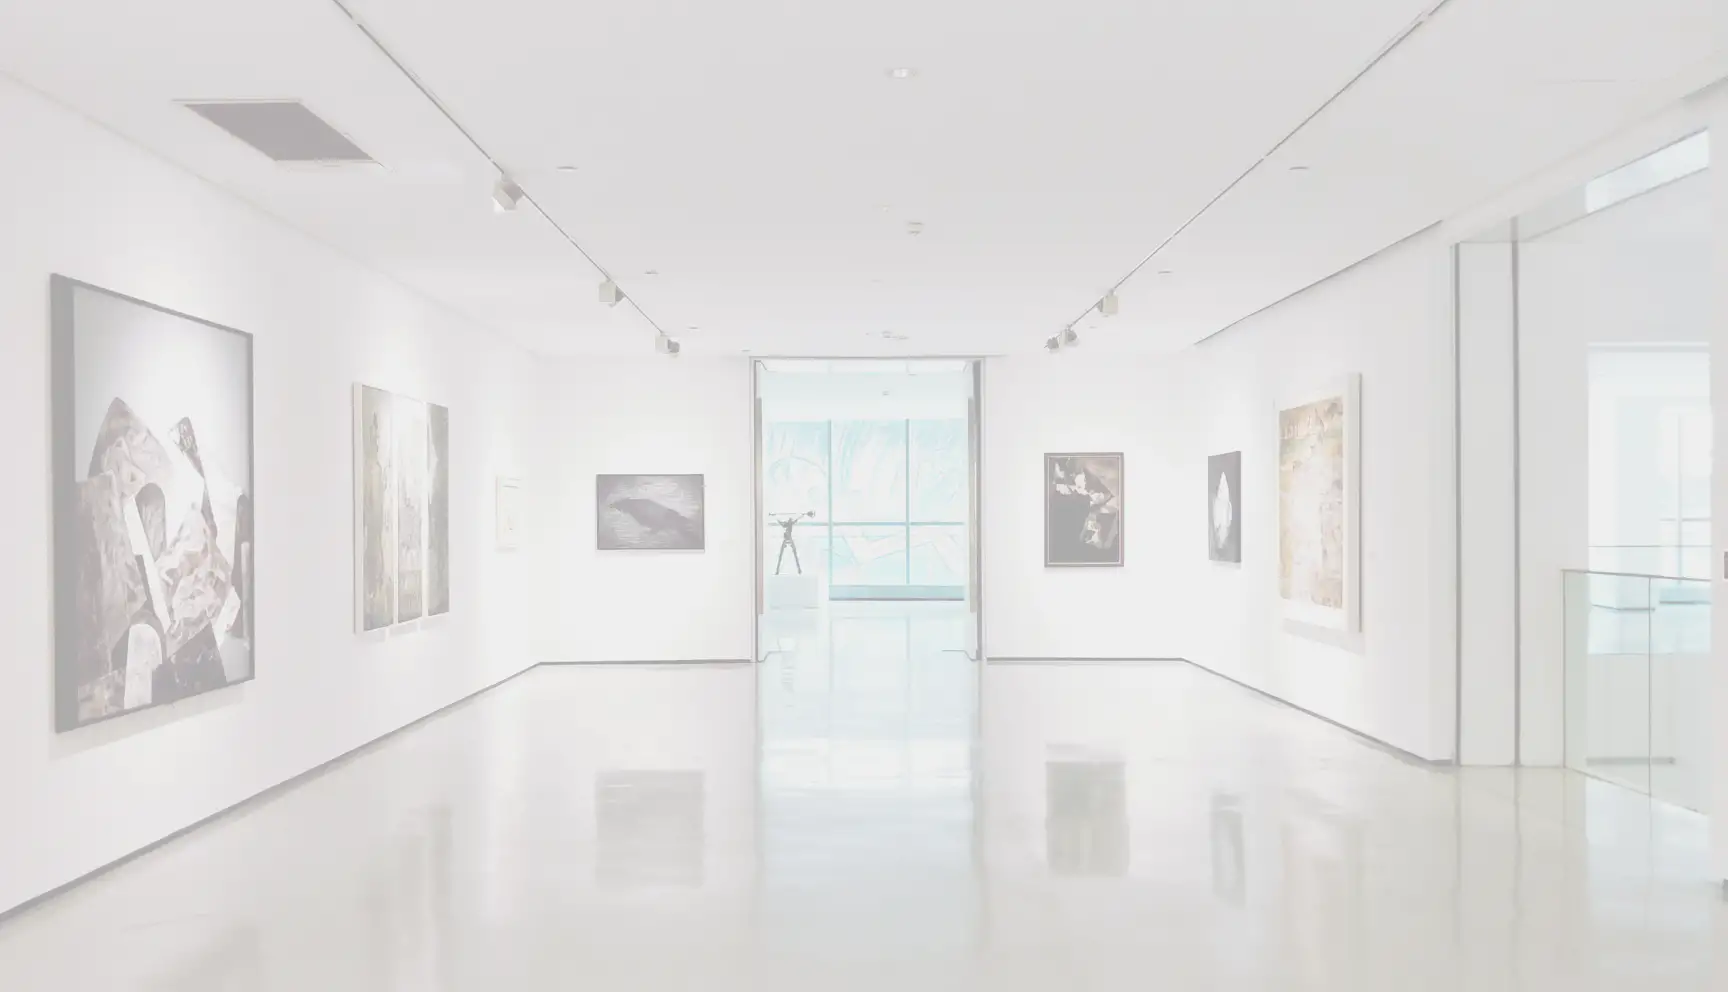
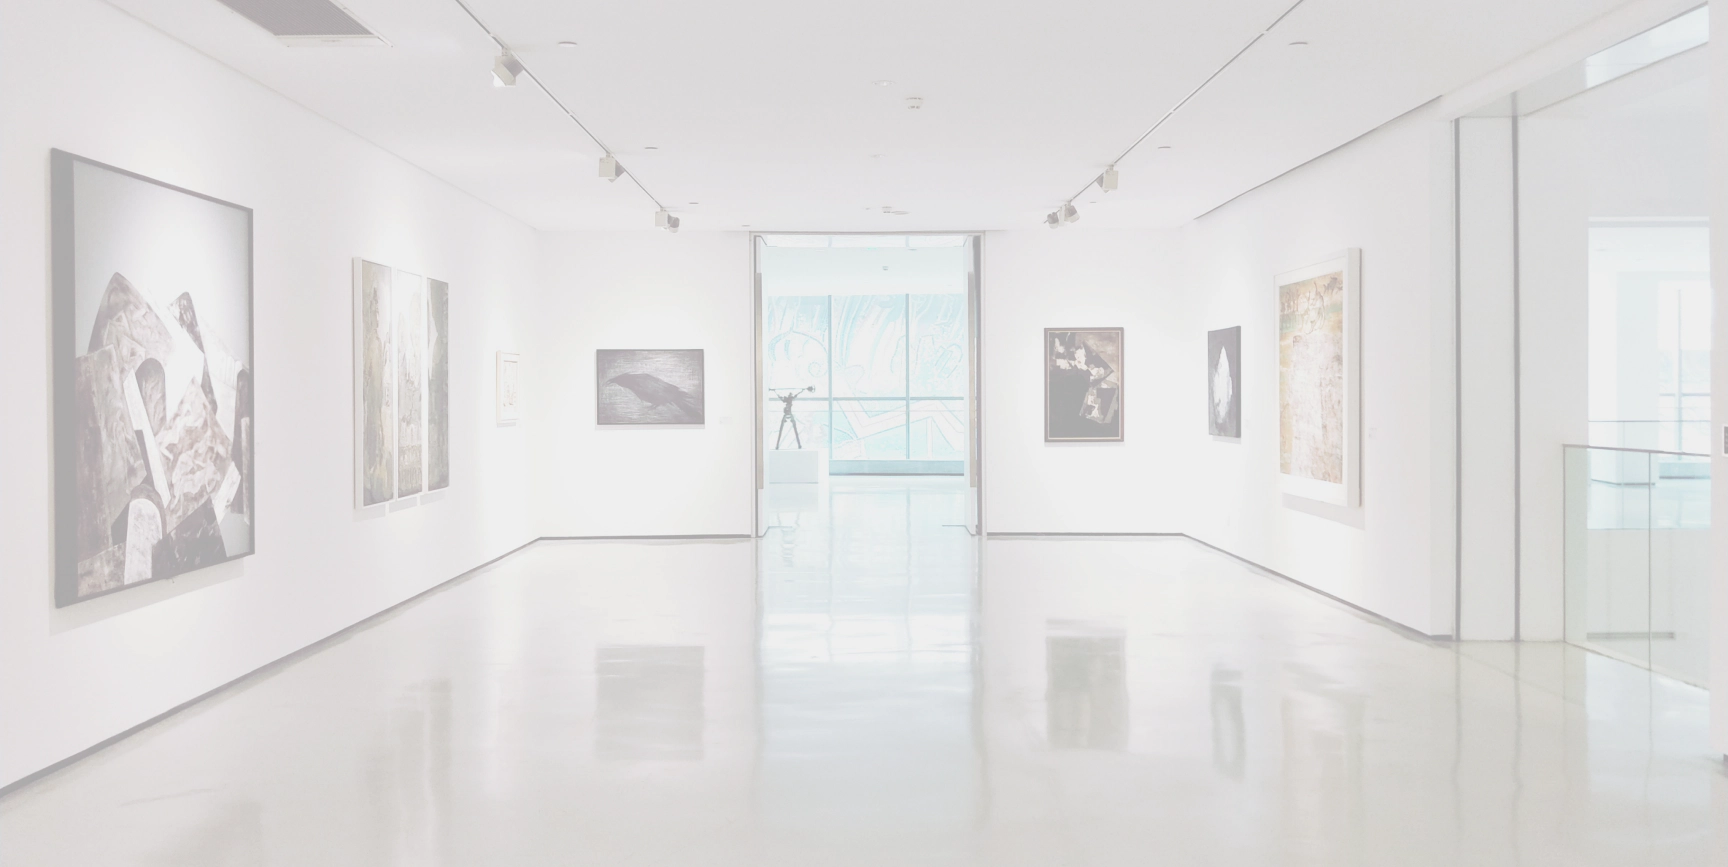
avancement header + hero

diff --git a/index.html b/index.html
@@ -7,7 +7,7 @@
     <title>ArtVault</title>
     <link rel="stylesheet" href="src/css/style.css">
     <script defer="" src="https://unpkg.com/alpinejs@3.4.2/dist/cdn.min.js"></script>
-    <link rel="icon" type="image/svg" href="#"/>
+    <link rel="icon" type="image/svg" href="public/icon/Logo-s.svg"/>
 </head>
 <body>
 
@@ -18,9 +18,8 @@
         <nav class="header__menu menu">
             <ul class="menu__list listUnstyled">
                 <li class="menu__item"><a class="menu__link" href="/"><h3 class="menu__title">Accueil</h3></a></li>
-                <li class="menu__item"><a class="menu__link" href="concepteurs.html"><h3 class="menu__title">Concepteurs</h3></a></li>
                 <li class="menu__item"><a class="menu__link" href="contact.html"><h3 class="menu__title">Contact</h3></a></li>
-                <li class="menu__item"><a class="menu__link" href="connect.html"><h3 class="menu__title">Se connecter</h3></a></li>
+                <li class="menu__item"><a class="menu__link connect" href="connect.html"><h3 class="menu__title">Se connecter</h3></a></li>
             </ul>
         </nav>
     </header>
@@ -32,25 +31,25 @@
                 <p class="hero__tagline">Imagine, créer et personnalise ton musée virtuel</p>
             </div>
             
-            <a href="#repere">
-                <div class="hero__line"></div>
+            <a class="hero__swipe" href="#repere">
+                <img src="public/icon/Swipe.svg" alt="icone de swipe">
             </a>
             
-            <div>
+            <div class="hero__illu">
                 <img src="public/img/illustration0.webp" alt="image de musée">
             </div>
 
-            <a href="#">Rejoindre</a>
+            <div class="hero__button"><a href="#">Rejoindre</a></div>
             <div id="repere" class="hero__repere"></div>
         </div>
 
-        <img src="public/img/illustration1.webp" alt="illustration d'un musée">
+        <img class="ill1" src="public/img/illustration1.webp" alt="illustration d'un musée">
         <h2>Votre musée personnel</h2>
         <p>Créez, imaginez et personnalisez votre propre pièce de musée. Développez votre imagination, affirmez votre style et laissez place à votre créativité. Grâce aux nombreuses oeuvres et items disponibles, décorez votre mur librement dans ArtVault.</p>
         <h2>Espace de partage</h2>
         <p>Partagez votre musée aux autres utilisateurs et visitez leurs pièces. Réagissez, commentez et partagez autour des créations de chacun. Inspirez vous des murs de la communauté et développez toujours plus votre imagination.</p>
-        <img src="public/img/illustration2.webp" alt="illustration d'un musée">
-        <img src="public/img/illustration3.webp" alt="illustration d'un musée">
+        <img class="ill2" src="public/img/illustration2.webp" alt="illustration d'un musée">
+        <img class="ill3" src="public/img/illustration3.webp" alt="illustration d'un musée">
         <h2>Une création sans limite</h2>
         <p>Vous cherchez à intégrer votre œuvre ou vos propres items de personnalisation ? Uploadez les et utilisez les dans votre espace. Mettez les à disposition des autres utilisateurs gratuitement ou fixez votre prix pour chaque achat.</p>
     </main>

diff --git a/src/css/components/hero.css b/src/css/components/hero.css
@@ -1,31 +1,31 @@
-.hero__header {
-    height: 100vh;
-    color: var(--grey--1);
-    display: flex;
-    flex-direction: column;
-}
-
 .hero__title {
-    font-size: var(--t);
-    font-weight: 300;
-    line-height: 5.19rem;
-    padding-top: 4vh;
+    position: absolute;
+    top: 0;
+    left: 0;
+    right: 0;
     text-align: center;
-    margin-right: 0;
+    margin-top: 23vh;
+    color: var(--red--2);
+    font-weight: 900;
+    font-size: var(--h1);
+    text-transform: uppercase;
+    z-index: 2;
 }
 
 .hero__tagline {
-    font-family: var(--font-serif);
-    font-size: var(--h3);
-    color: var(--design--1);
-    font-weight: 600;
+    position: absolute;
+    top: 0;
+    left: 0;
+    right: 0;
     text-align: center;
-    position: relative;
-    top: -32px;
+    margin-top: 40vh;
+    font-weight: 400;
+    color: var(--black);
+    z-index: 2;
 }
 
-.title__redLetter {
-    color: var(--design--1);
+.hero__illu img {
+    max-width: 100%;
 }
 
 .hero__repere {
@@ -37,43 +37,35 @@
     z-index: -1;
 }
 
+.hero__button{
+    position: absolute;
+    top: 0;
+    right: 0;
+    left: 0;
+    width: 15.6vw;
+    height: 7.4vh;
+    background-color: var(--red--3);
+    margin-top: 78.5vh;
+    z-index: 2;
+    display: flex;
+    justify-self: center;
+    justify-content: center;
+    margin-right: auto;
+    margin-left: auto;
+}
+
+.hero__button a {
+    font: 400 var(--t-l);
+    color: var(--white);
+    display: flex;
+    align-self: center;
+}
+
 .hero__swipe {
-    font-family: var(--font-sans-serif2);
-    font-weight: lighter;
-    font-size: var(--st);
-    color: var(--grey--1);
-    z-index: 0;
     position: absolute;
-    top: 90vh;
-    left: 46%;
-}
-
-.hero__line {
-    width: 87.47px;
-    height: 24.72px;
-    z-index: 0;
-    position: absolute;
-    top: 93vh;
-    left: 46%;
-}
-
-.hero__line::after, 
-.hero__line::before {
-    content: "";
-    width: 50px;
-    height: 1px;
-    background-color: var(--grey--1);
-    position: absolute;
-}
-
-.hero__line::after {
-    top: 0.875rem;
-    left: -2.0625rem;
-    transform: rotate(29.62deg);
-}
-
-.hero__line::before {
-    top: 0.875rem;
-    left: 0.6875rem;
-    transform: rotate(-29.62deg);
+    top: 0;
+    left: 0;
+    right: 0;
+    text-align: center;
+    margin-top: 90vh;
 }

diff --git a/src/css/layout/header.css b/src/css/layout/header.css
@@ -1,6 +1,38 @@
 .header {
+    position: fixed;
+    top: 0;
+    left: 0;
     width: 100%;
-    height: 125px;
+    min-height: 7vh;
     background-color: var(--white);
     display: flex;
+    justify-content: space-between;
+    font-size: var(--ps);
+    font-weight: 300;
+    z-index: 10;
 }
+
+.header__logo {
+    margin: 1.3% 0 1.3% 2.3%;
+    height: 50px;
+    display: flex;
+    align-self: center;
+}
+
+.header__menu {
+    display: flex;
+    align-items: center;
+    margin-right: 2.3%;
+}
+
+.menu__list {
+    display: flex;
+    gap: 3vw;
+}
+
+.menu__title {
+    font-weight: 300;
+    color: var(--grey--4);
+}
+
+

diff --git a/src/css/base/main.css b/src/css/base/main.css
@@ -3,6 +3,22 @@
 *::after {
   box-sizing: border-box;
 }
+
+body {
+  font-family: var(--font);
+  background-color: var(--black);
+}
+
 .listUnstyled {
+  list-style: none;
+  margin: 0;
+  padding: 0;
+}
+
+a {
   text-decoration: none;
+}
+
+.ill1{
+  max-width: 38.6vw;
 }

diff --git a/src/css/style.css b/src/css/style.css
@@ -1,6 +1,6 @@
 /*Fonts*/
 
-
+@import url('https://fonts.googleapis.com/css2?family=Montserrat:wght@300;400;900&display=swap');
 /*Utils*/
 
 @import url(utils/variables.css);

diff --git a/src/css/utils/variables.css b/src/css/utils/variables.css
@@ -23,4 +23,7 @@
 --h3: 1.41rem;
 --t-l: 1.12rem;
 --p: 1rem;
+--ps: 0.75rem;
+
+--font: 'Montserrat';
 }
